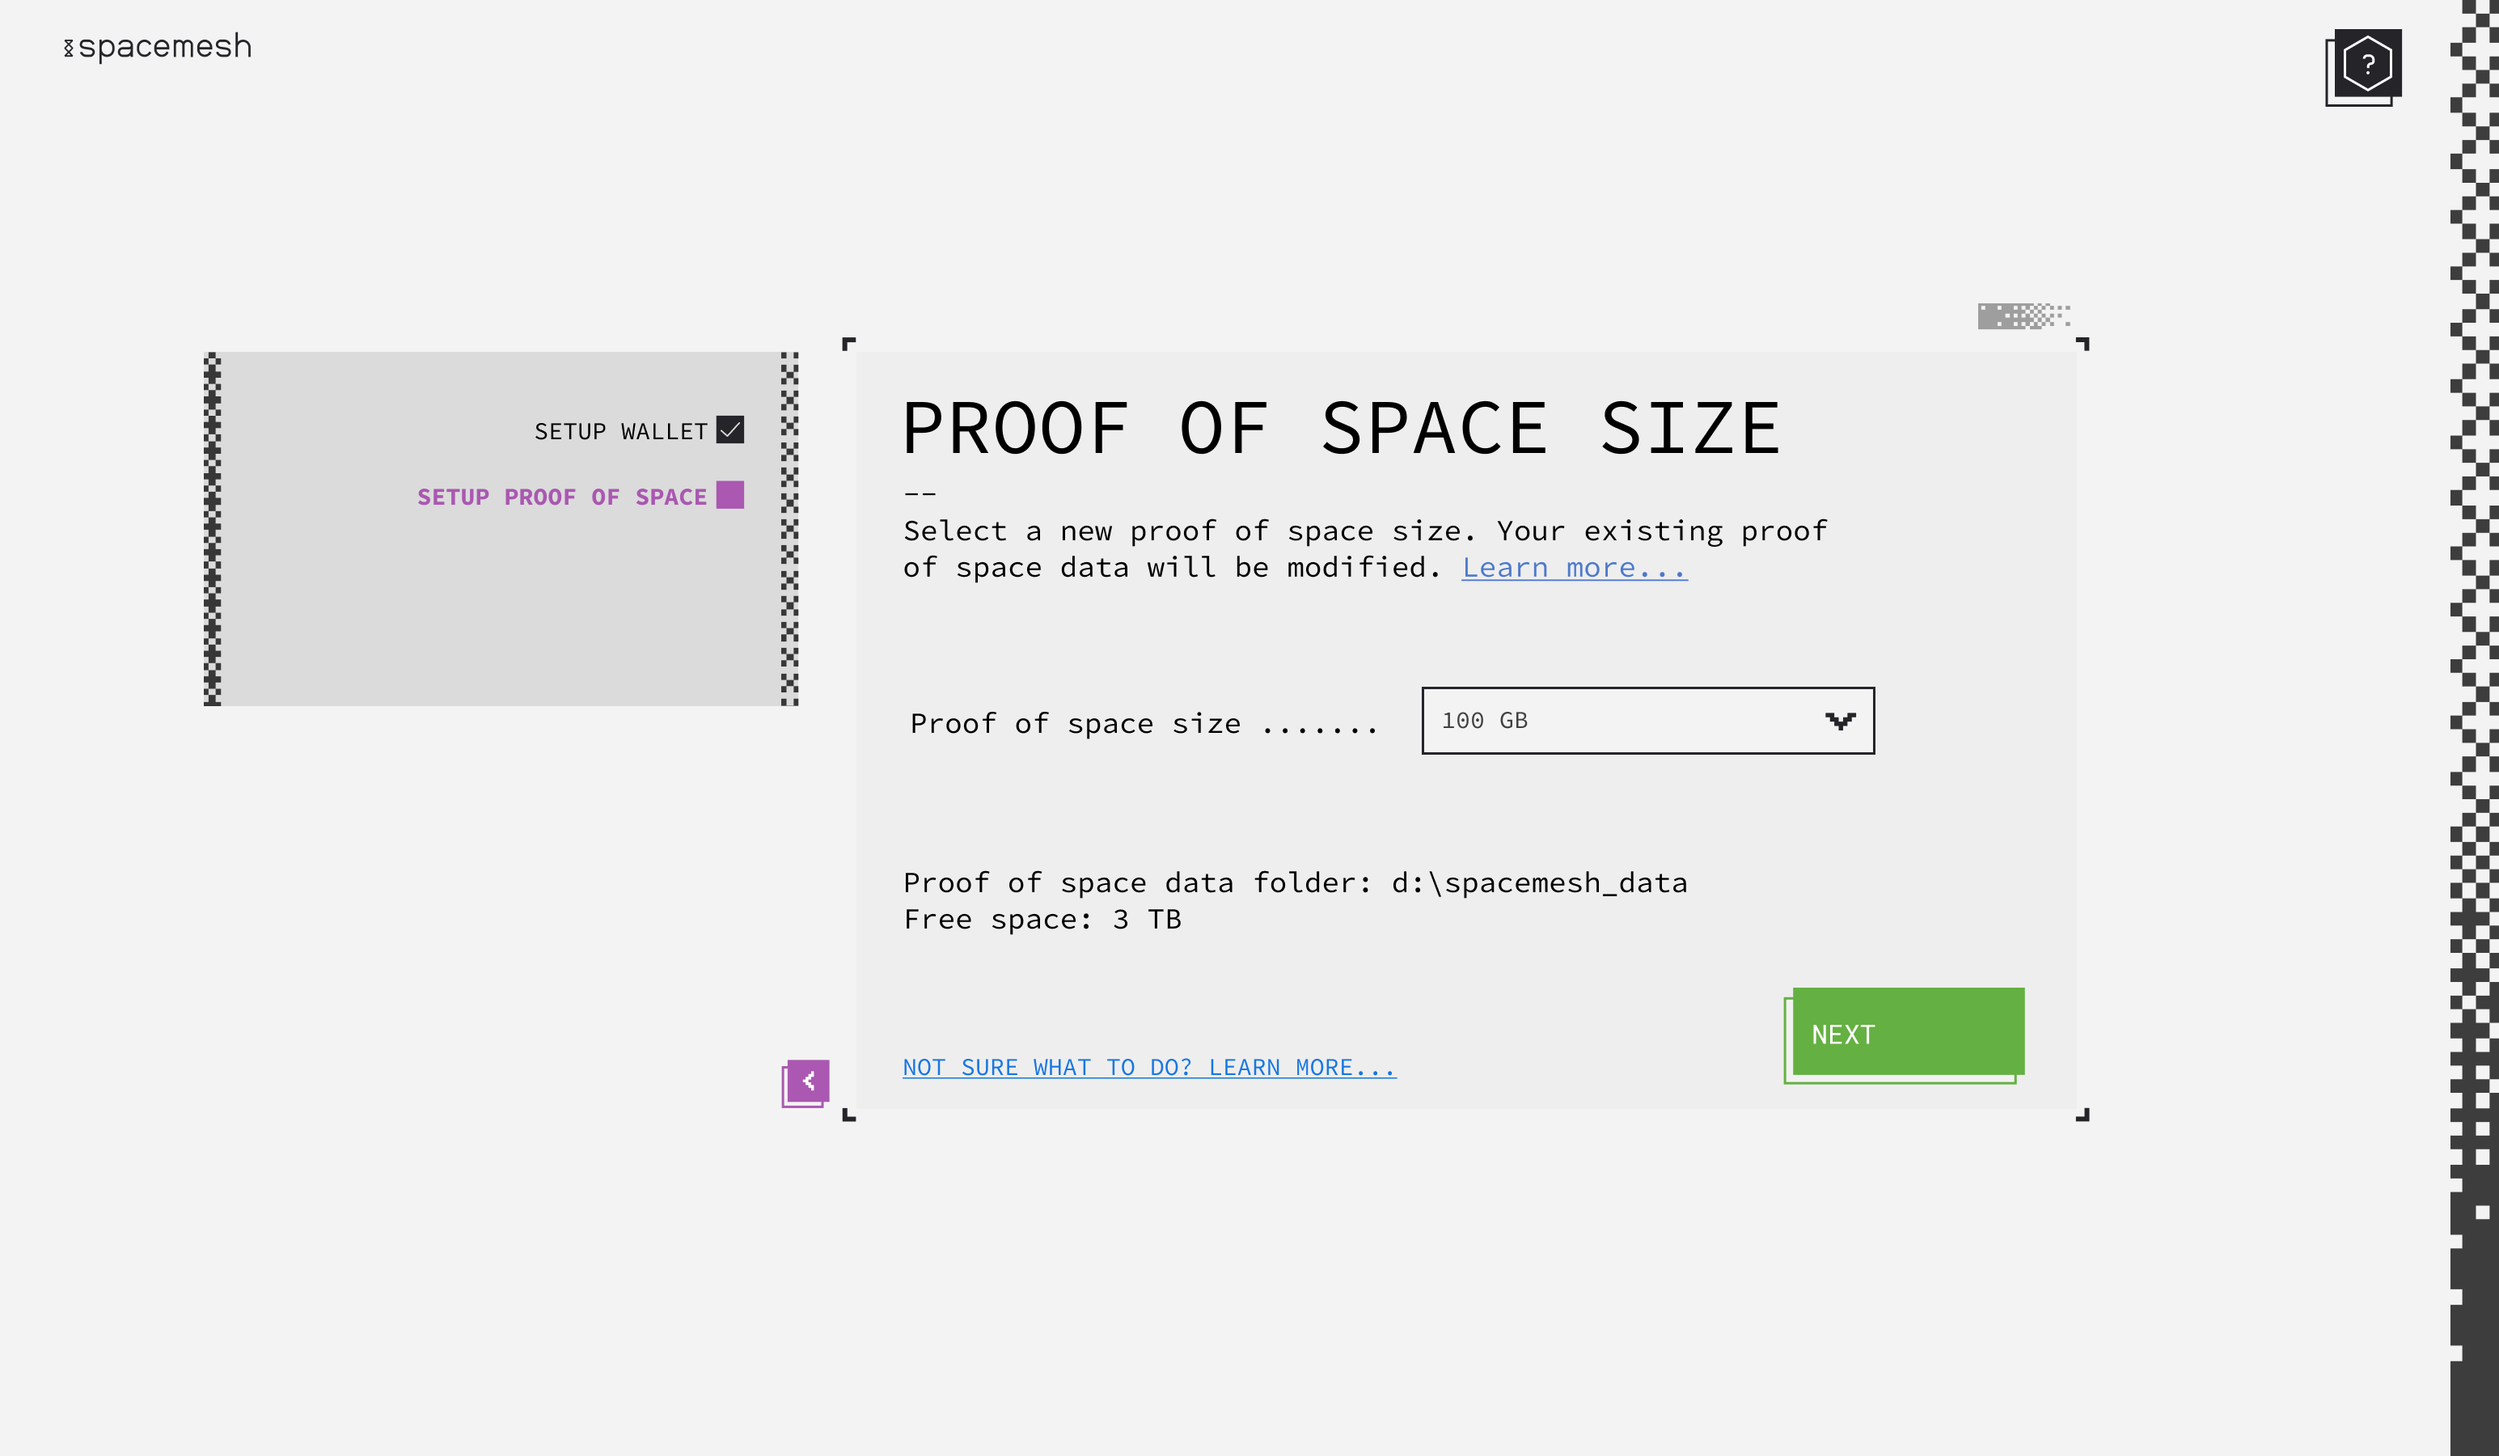
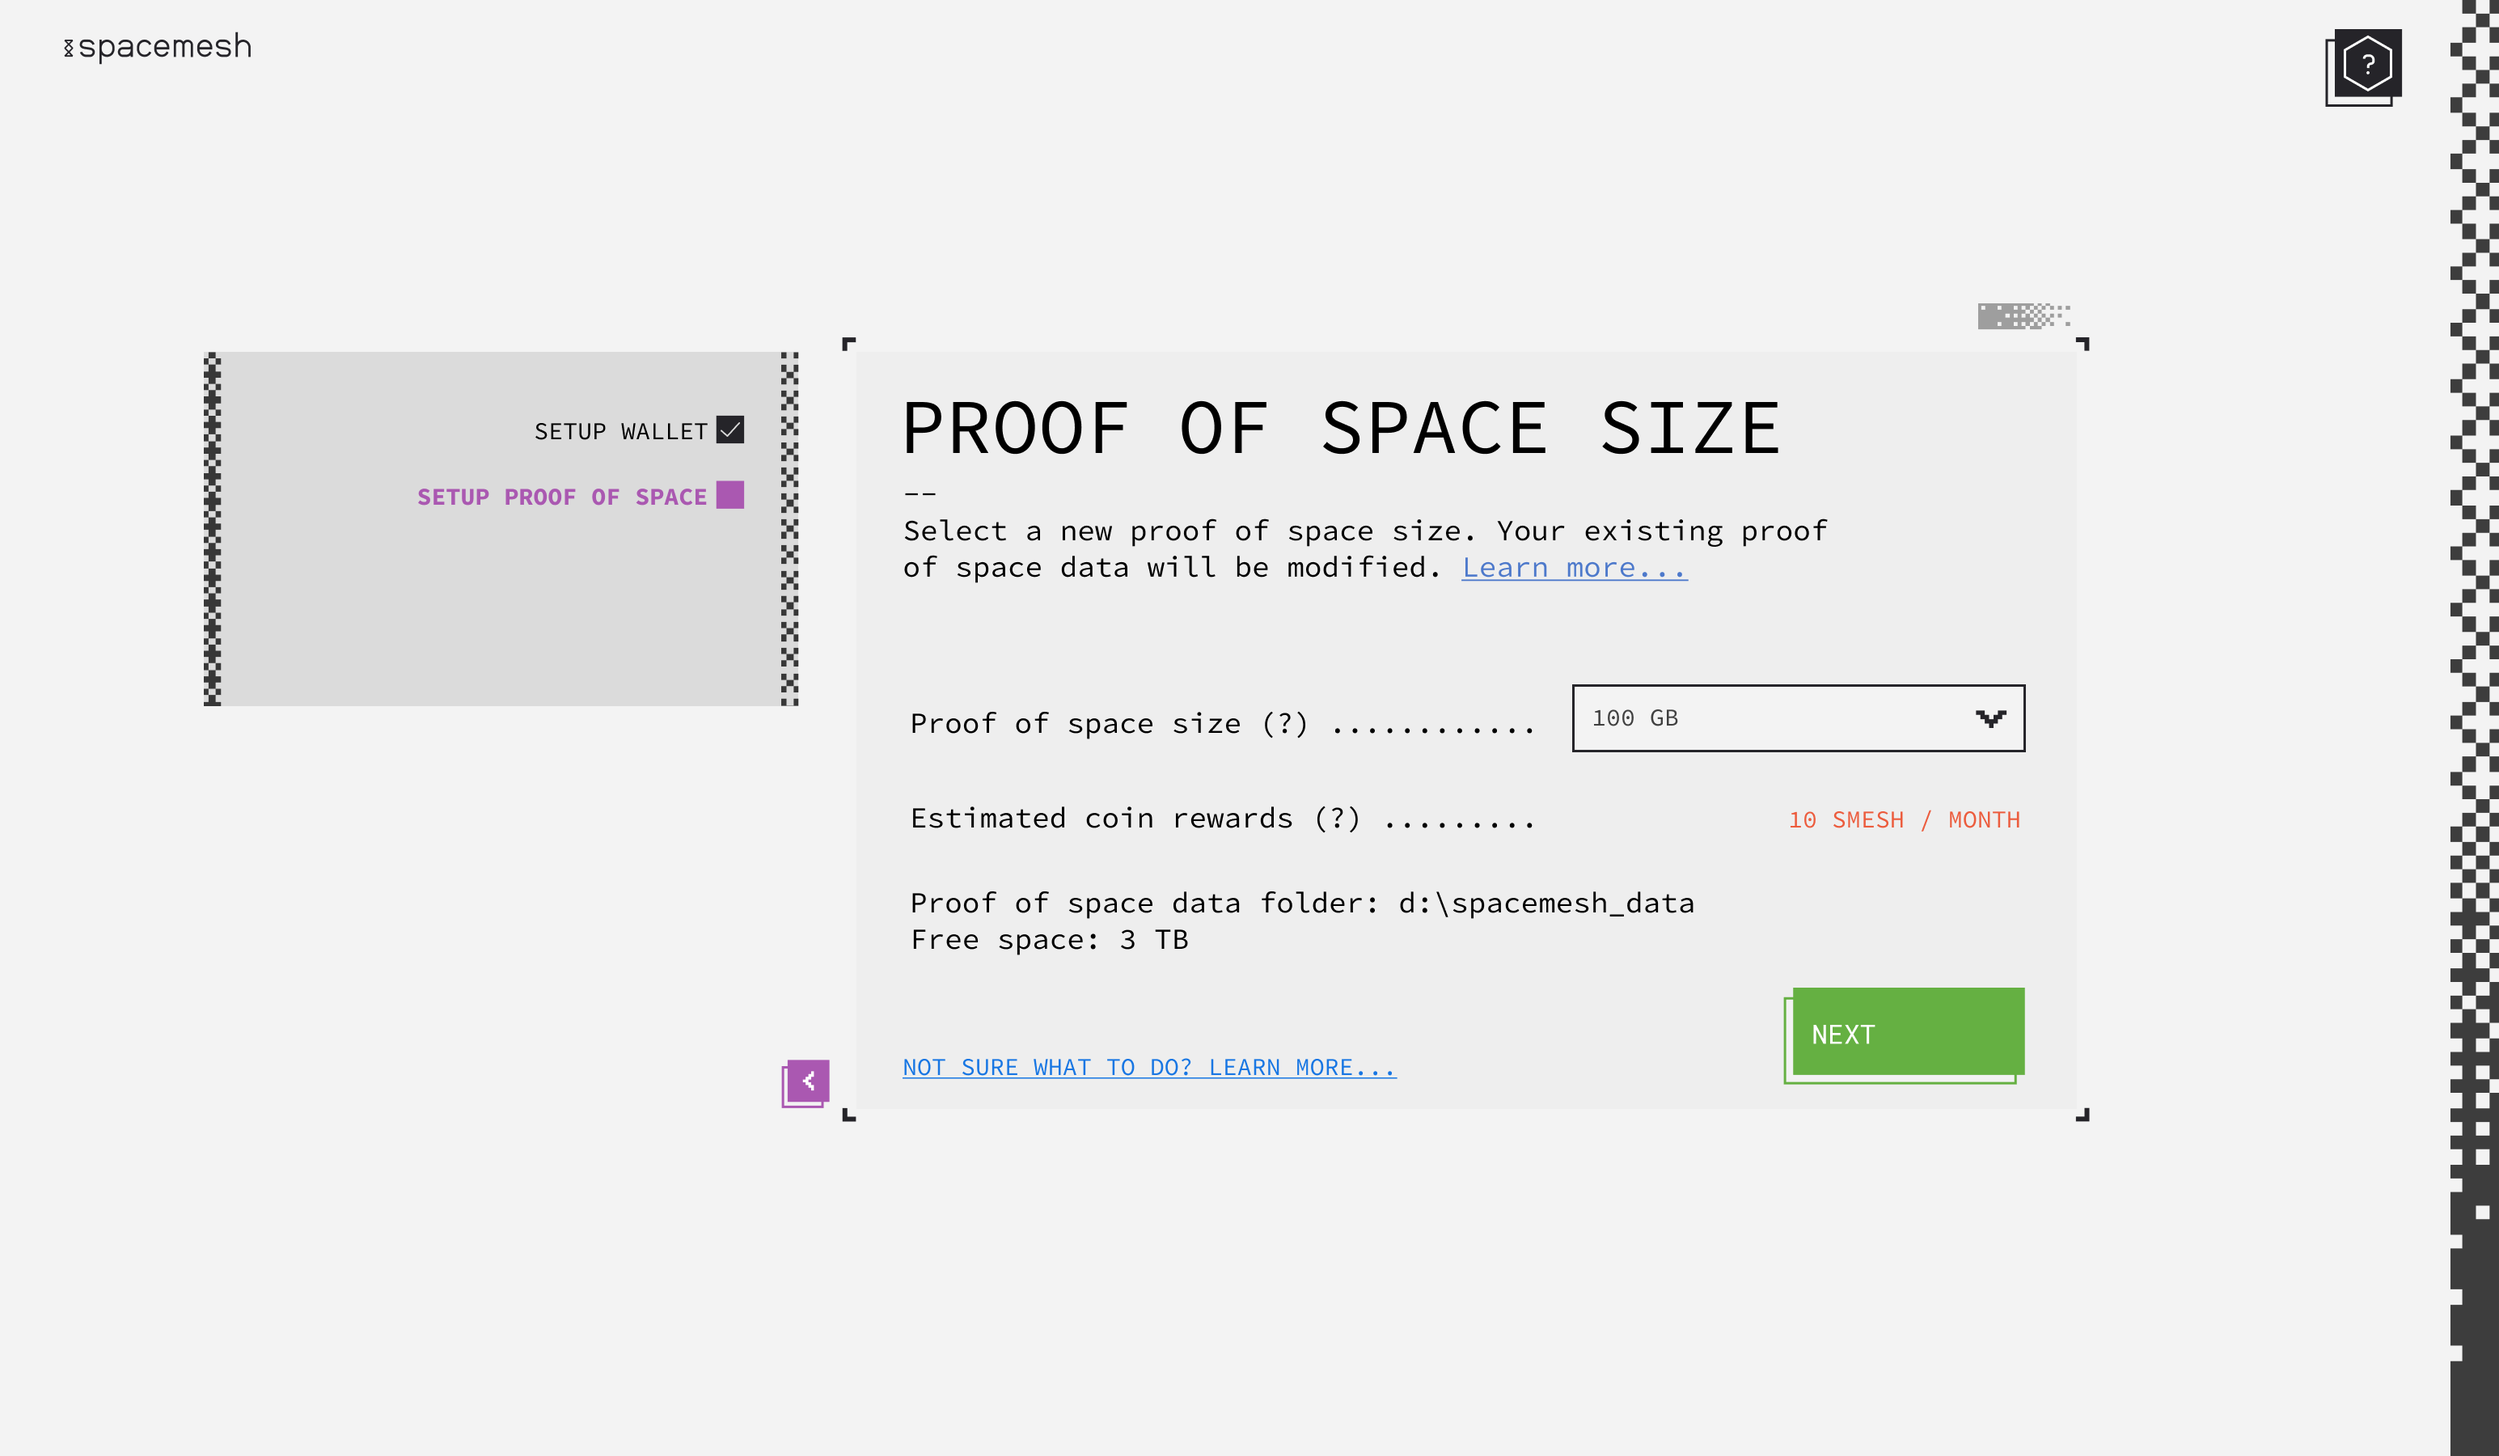
Proof of space data creation in smapp mini spec

Changed region(s): [[0.3728, 0.5911, 0.6835, 0.6533], [0.5592, 0.4667, 0.7456, 0.5289], [0.7767, 0.4667, 0.8078, 0.4978]]

diff --git a/post_setup.md b/post_setup.md
@@ -1,0 +1,101 @@
+# Proof of Space Data Smapp Flows
+This spec describes the following flows in the Spacemesh app:
+
+1. Set up proof of space in the App using a system gpu gpu as part of the smesher setup flow.
+2. Track setup progress and any errors.
+3. Delete proof of space data and stop smeshing.
+4. Resize proof of space data.
+
+## Proof of Space Data Setup Wizard
+
+Wizard flow starts when setting a new smesher in the app's first user experience flow or when user clicks a button in Smesher to setup smeshing.
+
+### Step 1 - Data Directory
+![](./resources/post_mocks/post_setup_directory.png)
+
+> Note in future releases, we'll enable selection of multiple paths, potentially on different system volumes.
+
+- User specifies a directory on a volume.
+- App should check that the path has sufficient free space for the min size data. e.g. 100GB free if the network min proof of space data is 100GB.
+- App should display an error if user tries to specify a path with insufficient space. Otherwise, app should display the available free space on that volume and the path that was selected.
+- `Next` should be disabled until a valid path was selected.
+
+
+### Step 2 - Data Size
+![](./resources/post_mocks/post_setup_size.png)
+
+- App creates a drop down with all the available data sizes based on the min data size (a network param), the available space on the directory's volume and the max data size for a single proof of space data (a network param).
+- App displays the dropdown so user can easily select any legal value. It is okay even if drop down have hundreds of entries - desktop users know how to scroll large menus with the mouse wheel / trackpad.
+- Enable user to type requested storage size. e.g. `3 TB` into the drop-down. Technically this is should be an editable combo-box.
+- The App should present to the user the estimated coin rewards per month based on the user size selection and the the number of active smeshers in the most recently finished epoch.
+
+> The Smesher API service should provide an end-point for the estimated reward/month for the min proof of space data unit.
+
+- By default, the app should select the min data size so user can just review and click on next if he doesn't wish to change data size.
+
+### Step 3 - Data Processor
+
+![](./resources/post_mocks/post_Setup_processor.png)
+
+- The App displays to the user a list of available processors and compute engines to create the data. For example, when the system has 1 Nvidia Geforce RTX 2070 GPU which supports Cuda and Vulkan compute engine, the drop-down will list two options: `Nvidia Geforce RTX 2070 (CUDA)` and `Nvidia Geforce RTX 2070 (Vulkan)`.
+- For each available processor and engine, the app should display the estimated work time to create the data.
+- When no processor if available on the system - the app should display a note about this instead of the drop-down with link to read about supported processors in the guide.
+
+> We might include an option to use the main CPU as the processor in future releases but for this release we only support compatible gpu processors.
+
+- App displays a check-box for pausing data creation when the computer is used. When checked, the data creation process will only use the processor after a 5 minute period of no user interaction with the computer. When unchecked, creation should not consider user idleness and work at the topmost available speed.
+
+
+### Step 4 - Review & Create Data
+
+![](./resources/post_mocks/post_Setup_confirm.png)
+
+- The App should display the data creation information specified by the user in previous steps.
+- User reviews the data and clicks `Create Data` to start creating it.
+- User can go back to review his input in previous steps.
+- User should be able to cancel the setup (not displayed in the mock) via a `Cancel Setup` button.
+- Clicking `Create Data` should start the data creation process and display the main Smesher screen (below).
+
+---
+
+## Smesher Screen with Proof of Space Data Info and Status
+
+![](./resources/post_mocks/smesher_screen_post_status.png)
+
+- The Smesher main screen provides information and data creation status.
+- The mock includes all the status and info data that should be presented to the user.
+- When data creation is in progress, user can pause data creation by clicking on the `Pause Creating Data` button.
+- If the user paused, he may resume the creation at any later time and the pause button should change to 'Resume Creating Data'.
+- User can choose to modify the post data at any time - while the data is being created or when it was alredy created by clicking the `Modify Post Data Button`. Clicking it causes the App to display the Modify Data screen (see below).
+
+
+---
+
+## Smesher Screen with Proof of Space Data Error
+![](./resources/post_mocks/smesher_screen_post_error.png)
+
+- When there was an error creating the data. The App displays the error to the user and user can click on `Create Data` to start the data creation process again.
+- User can also choose to modify the data size by clicking on the `Modify Data` button.
+
+---
+
+## Smesher Screen when Data Is Not Setup
+![](./resources/post_mocks/smesher_screen_no_post.png)
+
+- This is the contents of the smesher screen when proof of space setup never started by the user. e.g. He canceled out of the data creation wizard.  
+- Clicking on `Create Data` starts the Post Data Setup Wizard (above).
+
+---
+
+## Modify Proof of Space Data Screen
+![](./resources/post_mocks/post_modify.png)
+
+- User clicks on `Resize Data` to resize it.
+- If data was even partially creator, user can click the `Delete Data` to delete it. When doing so, the App should display a confirmation dialog box, explaining to the user that deleting the data means stops smeshing and getting rewards and getting the user confirmation.
+- If data was not created, app should not display this section on this screen.
+
+## Resize Proof of Space Data Screen
+![](./resources/post_mocks/post_resize.png)
+
+- Similar interaction to initial proof of space size setup. User selects a new size and clicks `next`.
+- The App should continue the interaction from that screen to the next ones. e.g. processor selection...
